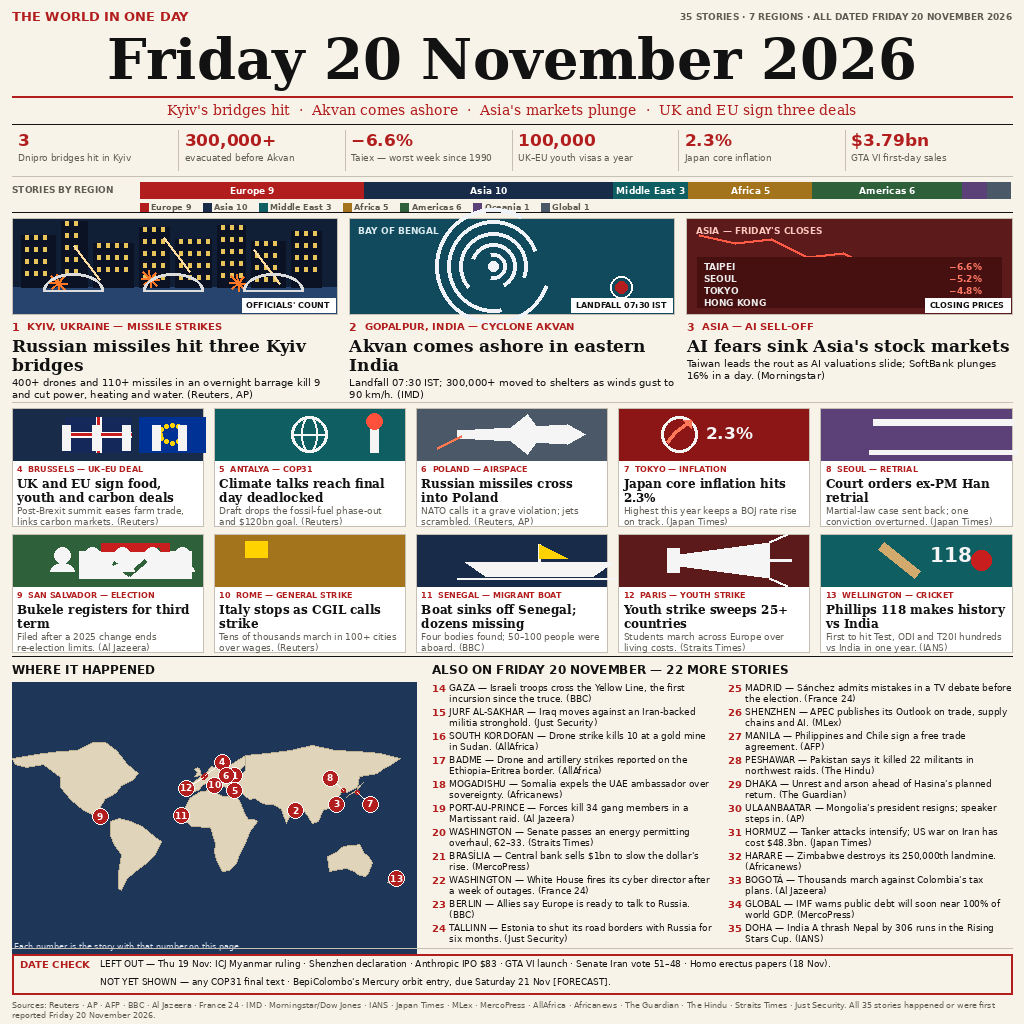
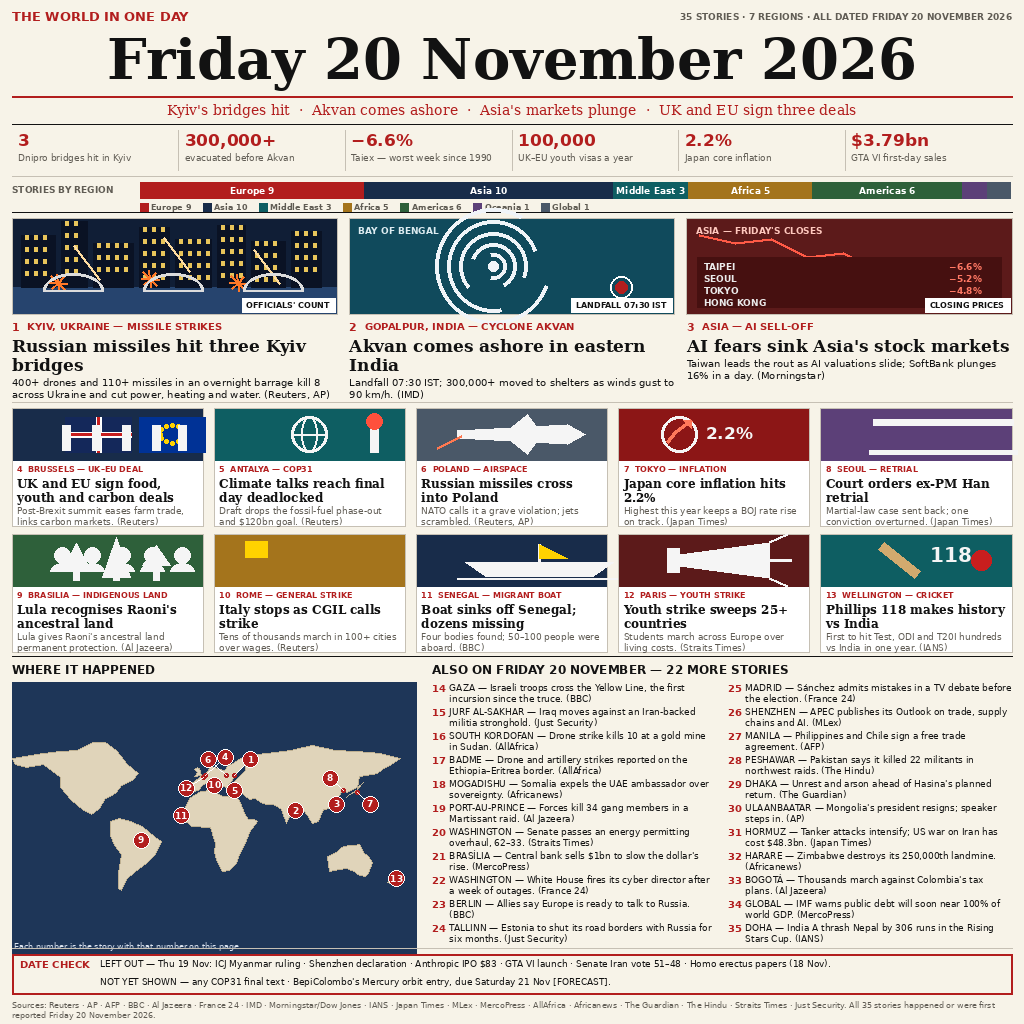
Fix blind-review facts: Raoni replaces Bukele, Japan core 2.2%, Kyiv toll 8

diff --git a/build_image.py b/build_image.py
@@ -132,7 +132,7 @@ STATS = [
     ("300,000+", "evacuated before Akvan"),
     ("\u22126.6%", "Taiex \u2014 worst week since 1990"),
     ("100,000", "UK\u2013EU youth visas a year"),
-    ("2.3%", "Japan core inflation"),
+    ("2.2%", "Japan core inflation"),
     ("$3.79bn", "GTA VI first-day sales"),
 ]
 
@@ -144,8 +144,8 @@ REGIONS = [("Europe", 9, (178, 30, 30)), ("Asia", 10, (24, 44, 74)),
 LEADS = [
     dict(num=1, kicker="KYIV, UKRAINE \u2014 MISSILE STRIKES",
          head="Russian missiles hit three Kyiv bridges",
-         deck=("400+ drones and 110+ missiles in an overnight barrage kill 9 "
-               "and cut power, heating and water. (Reuters, AP)"),
+         deck=("400+ drones and 110+ missiles in an overnight barrage kill 8 "
+               "across Ukraine and cut power, heating and water. (Reuters, AP)"),
          chip="OFFICIALS' COUNT"),
     dict(num=2, kicker="GOPALPUR, INDIA \u2014 CYCLONE AKVAN",
          head="Akvan comes ashore in eastern India",
@@ -170,14 +170,14 @@ CARDS = [
          head="Russian missiles cross into Poland",
          deck="NATO calls it a grave violation; jets scrambled. (Reuters, AP)"),
     dict(num=7, kicker="TOKYO \u2014 INFLATION", bg=RED_DK, art="cpi",
-         head="Japan core inflation hits 2.3%",
+         head="Japan core inflation hits 2.2%",
          deck="Highest this year keeps a BOJ rate rise on track. (Japan Times)"),
     dict(num=8, kicker="SEOUL \u2014 RETRIAL", bg=PURPLE, art="court",
          head="Court orders ex-PM Han retrial",
          deck="Martial-law case sent back; one conviction overturned. (Japan Times)"),
-    dict(num=9, kicker="SAN SALVADOR \u2014 ELECTION", bg=GREEN, art="ballot",
-         head="Bukele registers for third term",
-         deck="Filed after a 2025 change ends re-election limits. (Al Jazeera)"),
+    dict(num=9, kicker="BRASILIA \u2014 INDIGENOUS LAND", bg=GREEN, art="forest",
+         head="Lula recognises Raoni's ancestral land",
+         deck="Lula gives Raoni's ancestral land permanent protection. (Al Jazeera)"),
     dict(num=10, kicker="ROME \u2014 GENERAL STRIKE", bg=OCHRE, art="crowd",
          head="Italy stops as CGIL calls strike",
          deck="Tens of thousands march in 100+ cities over wages. (Reuters)"),
@@ -265,10 +265,13 @@ CONTINENTS = [
 # Story number -> (lon, lat) of the place it happened.
 PINS = {1: (30.5, 50.4), 2: (84.9, 19.3), 3: (121.5, 25.0), 4: (4.4, 50.85),
         5: (30.7, 36.9), 6: (23.0, 50.3), 7: (139.7, 35.7), 8: (127.0, 37.5),
-        9: (-89.2, 13.7), 10: (12.5, 41.9), 11: (-17.4, 14.7),
+        9: (-53.0, -7.0), 10: (12.5, 41.9), 11: (-17.4, 14.7),
         12: (2.35, 48.85), 13: (174.8, -41.3)}
 # Badge nudges (dx, dy) in px where true pin positions would collide.
-NUDGE = {4: (17, -13), 12: (-17, 11), 8: (-13, -12), 7: (13, 12)}
+# Europe cluster: pins 1/4/6 sit within ~10 px of each other at this scale,
+# so their badges are spread apart (true spot kept as a red dot + leader).
+NUDGE = {1: (16, -16), 4: (20, -18), 6: (-18, -16), 12: (-17, 11),
+         8: (-13, -12), 7: (13, 12)}
 
 
 def project(lon, lat, mx, my, s):
@@ -382,12 +385,18 @@ def draw_card_art(d, kind, x0, y0, x1, y1):
                 (cx - 22, cy - 14)], fill=(255, 120, 90), width=3)
         d.polygon([(cx - 22, cy - 14), (cx - 30, cy - 14), (cx - 22, cy - 6)],
                   fill=(255, 120, 90))
-        d.text((cx - 8, cy - 11), "2.3%", font=F_BOLD(17), fill=white)
+        d.text((cx - 8, cy - 11), "2.2%", font=F_BOLD(17), fill=white)
     elif kind == "court":
         d.rectangle([x0 + 52, y0 + 10, x0 + 192, y0 + 16], fill=white)
         for px in [62, 92, 122, 152, 178]:
             d.rectangle([px, y0 + 16, px + 8, y0 + h - 10], fill=white)
         d.rectangle([x0 + 48, y0 + h - 10, x0 + 196, y0 + h - 6], fill=white)
+    elif kind == "forest":
+        # Three rainforest trees for the Raoni ancestral-land card.
+        for tx, top, base in [(76, 8, 34), (116, 2, 42), (156, 10, 30)]:
+            d.polygon([(tx, y0 + top), (tx + 14, y0 + base), (tx - 14, y0 + base)],
+                      fill=white)
+            d.rectangle([tx - 3, y0 + base, tx + 3, y0 + h - 6], fill=white)
     elif kind == "ballot":
         d.rectangle([x0 + 66, y0 + 16, x0 + 178, y0 + h - 8], fill=white)
         d.rectangle([x0 + 88, y0 + 8, x0 + 156, y0 + 16], fill=(200, 30, 30))

diff --git a/README.md b/README.md
@@ -13,10 +13,10 @@ A one-page newspaper front page that sums up the world's news of **Friday 20 Nov
 ## What the image shows
 
 - **Masthead** — giant serif date, "Friday 20 November 2026", with a four-story red deck: Kyiv's bridges hit · Akvan comes ashore · Asia's markets plunge · UK and EU sign three deals.
-- **Stat strip (6)** — 3 Dnipro bridges hit in Kyiv · 300,000+ evacuated before Akvan · −6.6% Taiex, worst week since 1990 · 100,000 UK–EU youth visas a year · 2.3% Japan core inflation · $3.79bn GTA VI first-day sales.
+- **Stat strip (6)** — 3 Dnipro bridges hit in Kyiv · 300,000+ evacuated before Akvan · −6.6% Taiex, worst week since 1990 · 100,000 UK–EU youth visas a year · 2.2% Japan core inflation · $3.79bn GTA VI first-day sales.
 - **Region bar** — 35 stories across 7 regions: Europe 9 · Asia 10 · Middle East 3 · Africa 5 · Americas 6 · Oceania 1 · Global 1.
-- **Three leads** — #1 Kyiv: Russian missiles hit three Dnipro bridges (400+ drones, 110+ missiles, 9 killed); #2 Cyclone Akvan makes landfall near Gopalpur, 300,000+ evacuated; #3 Asia's AI sell-off, with a four-index closing table inside the art (Taiex −6.6%, KOSPI −5.2%, Nikkei −4.8%, Hang Seng −1.9%).
-- **Ten illustrated cards (#4–13)** — UK–EU food/youth/carbon deals · COP31 final day deadlocked · Russian missiles cross into Poland · Japan core CPI 2.3% · Seoul court orders ex-PM Han retrial · Bukele registers for a third term · Italy's CGIL general strike · migrant boat sinks off Senegal · youth strike sweeps 25+ countries · Glenn Phillips 118 vs India.
+- **Three leads** — #1 Kyiv: Russian missiles hit three Dnipro bridges (400+ drones, 110+ missiles, 8 killed across Ukraine); #2 Cyclone Akvan makes landfall near Gopalpur, 300,000+ evacuated; #3 Asia's AI sell-off, with a four-index closing table inside the art (Taiex −6.6%, KOSPI −5.2%, Nikkei −4.8%, Hang Seng −1.9%).
+- **Ten illustrated cards (#4–13)** — UK–EU food/youth/carbon deals · COP31 final day deadlocked · Russian missiles cross into Poland · Japan core CPI 2.2% · Seoul court orders ex-PM Han retrial · Lula recognises Raoni's ancestral land · Italy's CGIL general strike · migrant boat sinks off Senegal · youth strike sweeps 25+ countries · Glenn Phillips 118 vs India.
 - **Where it happened** — a world map with numbered red pins 1–13, each pin the story with that number on the page.
 - **22 more stories (#14–35)** — Gaza Yellow Line incursion · Iraq moves against an Iran-backed militia · Sudan gold-mine drone strike · Badme border strikes · Somalia expels the UAE ambassador · Haiti Martissant raid · US Senate energy bill 62–33 · Brazil central bank $1bn intervention · White House fires its cyber director · Berlin coalition meeting · Estonia border closure · Spain's Sánchez debate · APEC Outlook published · Philippines–Chile FTA · Pakistan raids · Bangladesh unrest · Mongolia president resigns · Hormuz tanker attacks · Zimbabwe's 250,000th landmine · Colombia tax protests · IMF debt warning · India A beat Nepal by 306 runs.
 - **Date check** — names what was deliberately left out (first reported Thursday 19 Nov: ICJ Myanmar ruling, Shenzhen declaration, Anthropic IPO at $83, GTA VI launch, US Senate Iran vote 51–48, Homo erectus papers 18 Nov) and what had not happened yet at press time (any COP31 final text; BepiColombo's Mercury orbit entry, due Saturday 21 Nov).
